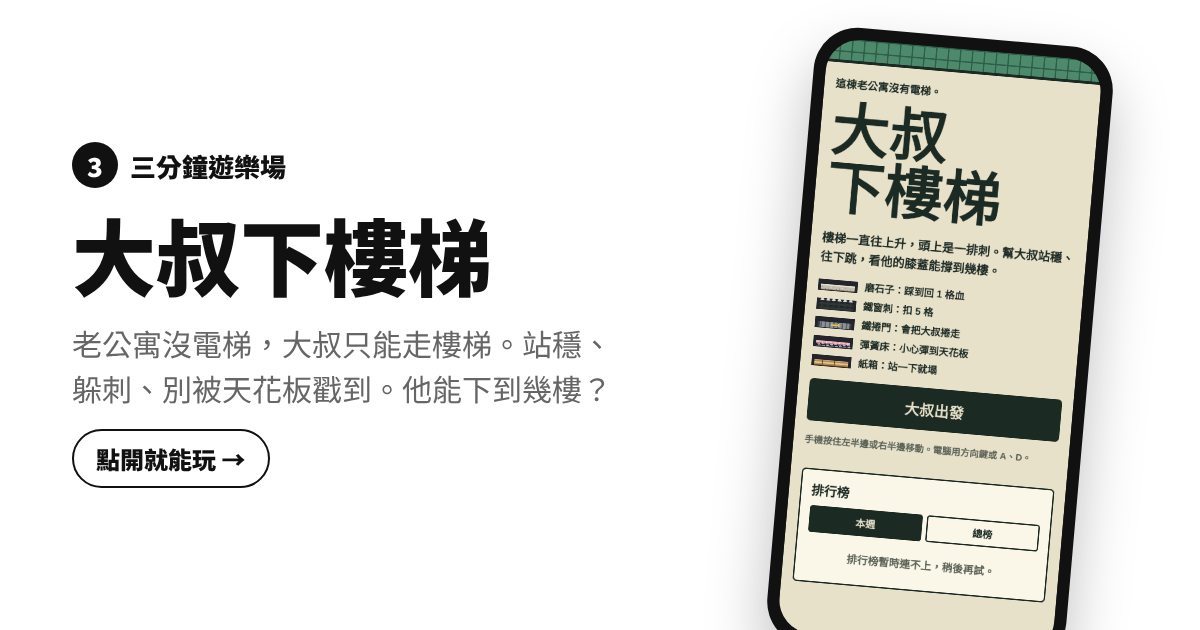
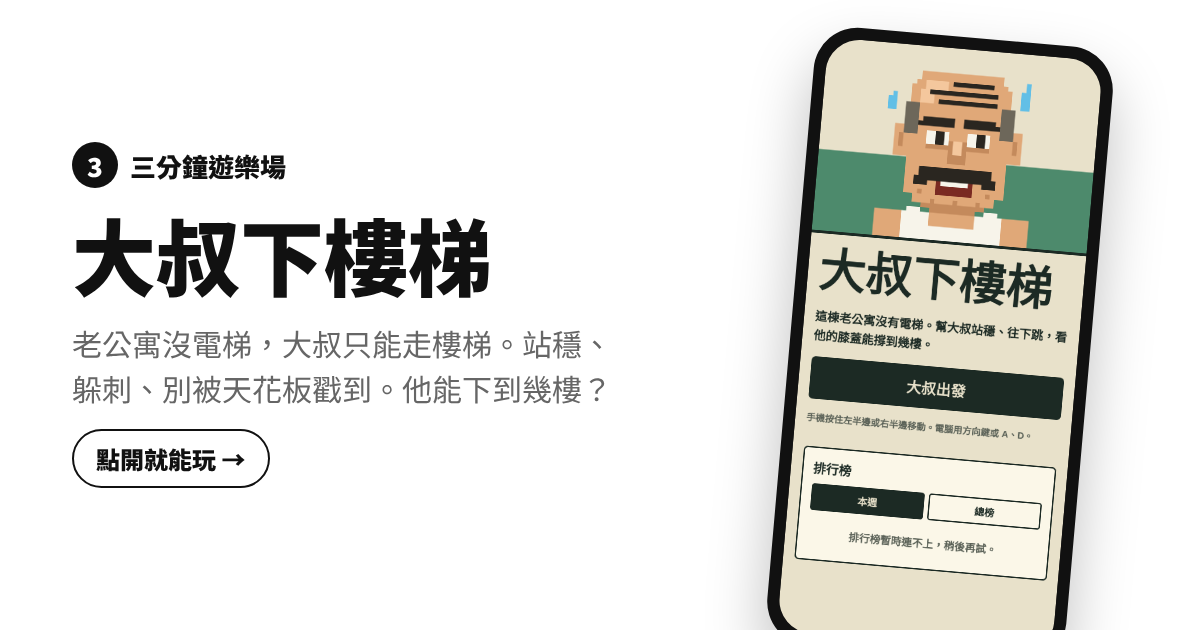
大叔下樓梯：首頁精簡，放上大叔頭像
Claude-Session: https://claude.ai/code/session_01QPvcMVRhcj4EDkTRVB6Akj

Changed region(s): [[0.6475, 0.0603, 0.925, 0.9651]]

diff --git a/uncle-stairs/index.html b/uncle-stairs/index.html
@@ -30,7 +30,9 @@ button{font:inherit;color:inherit;cursor:pointer}
 .sign{background:var(--sign);overflow-y:auto;-webkit-overflow-scrolling:touch}
 .sheet{width:100%;max-width:440px;margin-inline:auto;display:flex;flex-direction:column;gap:16px;flex:1 0 auto;padding-block:calc(18px + env(safe-area-inset-top,0px)) calc(20px + env(safe-area-inset-bottom,0px));padding-left:max(16px,env(safe-area-inset-left,0px));padding-right:max(16px,env(safe-area-inset-right,0px))}
 .notice{font-weight:700;font-size:15px;margin:0}
-h1{font:900 clamp(66px,21vw,96px)/1 var(--sans);margin:0;letter-spacing:.01em}
+h1{font:900 clamp(50px,17vw,76px)/1.05 var(--sans);margin:0;white-space:nowrap}
+.hero{flex:none;width:100%;display:flex;justify-content:center;padding-top:calc(16px + env(safe-area-inset-top,0px));background:linear-gradient(var(--sign) 58%,var(--green) 58%);border-bottom:4px solid var(--ink)}
+#face{display:block;width:min(66vw,36vh,280px);height:auto;aspect-ratio:1;image-rendering:pixelated}
 .lead{font-size:17px;font-weight:700;line-height:1.6;margin:0}
 .btn{border:0;border-radius:6px;background:var(--ink);color:var(--sign);font-weight:900;font-size:21px;padding:15px 20px;width:100%}
 .btn:hover{background:#000}
@@ -83,18 +85,10 @@ ol.lb span:nth-child(3){font-family:var(--pixel)}
 </head>
 <body>
 <section class="screen sign" id="home">
-  <div class="tape"></div>
+  <div class="hero"><canvas id="face" width="40" height="40" role="img" aria-label="滿頭大汗的禿頭大叔"></canvas></div>
   <div class="sheet">
-    <p class="notice">這棟老公寓沒有電梯。</p>
-    <h1>大叔<br>下樓梯</h1>
-    <p class="lead">樓梯一直往上升，頭上是一排刺。幫大叔站穩、往下跳，看他的膝蓋能撐到幾樓。</p>
-    <ul class="rules" aria-label="踏板種類">
-      <li><canvas data-t="normal" width="56" height="16"></canvas>磨石子：踩到回 1 格血</li>
-      <li><canvas data-t="spike" width="56" height="16"></canvas>鐵窗刺：扣 5 格</li>
-      <li><canvas data-t="belt" width="56" height="16"></canvas>鐵捲門：會把大叔捲走</li>
-      <li><canvas data-t="spring" width="56" height="16"></canvas>彈簧床：小心彈到天花板</li>
-      <li><canvas data-t="flip" width="56" height="16"></canvas>紙箱：站一下就塌</li>
-    </ul>
+    <h1>大叔下樓梯</h1>
+    <p class="lead">這棟老公寓沒有電梯。幫大叔站穩、往下跳，看他的膝蓋能撐到幾樓。</p>
     <button class="btn" id="startBtn" type="button">大叔出發</button>
     <p class="keys">手機按住左半邊或右半邊移動。電腦用方向鍵或 A、D。</p>
     <p class="best" id="homeBest"></p>
@@ -188,7 +182,21 @@ function drawPlat(g,type,x,y,w,t,dir){
  else if(type==='spring'){g.fillStyle='#e9a7b6';g.fillRect(x,y,w,4);g.fillStyle='#f8d6dc';for(let i=2;i<w-2;i+=6)g.fillRect(x+i,y+1,2,2);g.fillStyle='#b4687c';g.fillRect(x,y+3,w,1);g.fillStyle='#b9c1c9';for(let i=2;i<w-3;i+=6){g.fillRect(x+i,y+4,4,1);g.fillRect(x+i+1,y+6,4,1)}g.fillStyle='#4a4f57';g.fillRect(x,y+7,w,1)}
  else if(type==='flip'){g.fillStyle='#b98a4f';g.fillRect(x,y,w,8);g.fillStyle='#d3a86b';g.fillRect(x,y,w,1);g.fillStyle='#ddc98f';g.fillRect(x,y+3,w,2);g.fillStyle='#6d4c26';for(let i=11;i<w-3;i+=17){g.fillRect(x+i,y,1,8)}g.fillRect(x,y+7,w,1)}
 }
-document.querySelectorAll('.rules canvas').forEach(c=>{const g=c.getContext('2d');g.fillStyle='#22252b';g.fillRect(0,0,56,16);drawPlat(g,c.dataset.t,4,7,48,.1,1)});
+/* 首頁大叔頭像 */
+const faceG=$('#face').getContext('2d');
+function drawFace(blink){const g=faceG,r=(c,x,y,w,h)=>{g.fillStyle=c;g.fillRect(x,y,w,h)},S1='#e0a878',S2='#c48a5c',S3='#f4c79d',K='#2a2620',W='#f7f4ea';g.clearRect(0,0,40,40);
+ r(S1,3,34,34,6);r(W,9,34,22,6);r(S1,15,34,10,3);r(W,10,33,3,2);r(W,27,33,3,2);r(S2,15,28,10,6);
+ r(S1,6,15,3,7);r(S1,31,15,3,7);r(S2,7,17,1,3);r(S2,32,17,1,3);
+ r(S1,11,3,18,2);r(S1,10,5,20,1);r(S1,9,6,22,24);r(S1,11,30,18,2);r(S2,13,32,14,1);
+ r(S3,12,5,5,2);r(S3,11,7,3,3);
+ r('#6d675a',8,10,3,7);r('#6d675a',29,10,3,7);r(K,13,7,15,1);r(K,15,9,13,1);r(K,18,5,9,1);
+ r(K,12,13,7,2);r(K,21,13,7,2);r(K,11,14,2,1);r(K,27,14,2,1);
+ if(blink){r(K,13,18,5,1);r(K,22,18,5,1)}else{r(W,13,16,5,3);r(W,22,16,5,3);r(K,15,16,2,3);r(K,24,16,2,3)}
+ r(S2,13,19,5,1);r(S2,22,19,5,1);r(S2,18,18,4,5);r(S3,19,18,2,3);
+ r(K,12,24,16,3);r(K,11,26,3,2);r(K,26,26,3,2);r('#7a2a22',16,27,8,3);r(W,17,27,6,1);
+ r(S2,12,29,1,1);r(S2,15,31,1,1);r(S2,20,31,1,1);r(S2,25,31,1,1);r(S2,27,29,1,1);
+ r('#62bfe6',33,6,2,4);r('#62bfe6',34,4,1,2);r('#62bfe6',4,9,2,3);r('#62bfe6',5,8,1,1)}
+drawFace(false);if(!calm)setInterval(()=>{if(mode!=='home')return;drawFace(true);setTimeout(()=>drawFace(false),130)},2800);
 
 /* 由上往下的地層 */
 const ZONES=[
